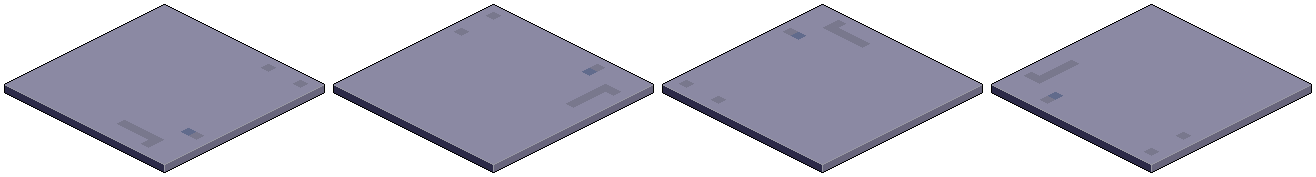
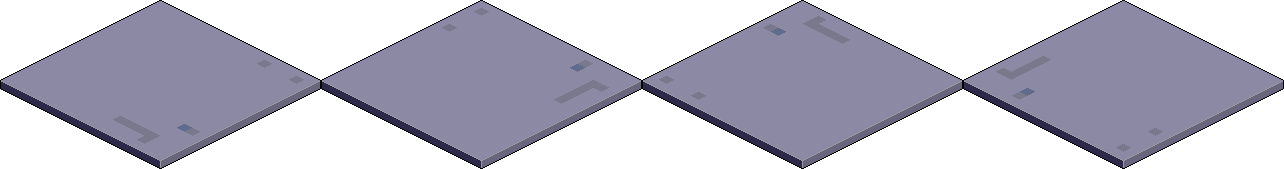
Tweaked the sprites

diff --git a/core/src/main/kotlin/tru/Assets.kt b/core/src/main/kotlin/tru/Assets.kt
@@ -350,9 +350,9 @@ object Assets : Disposable {
     val isoFloorTiles by lazy {
         val t = Texture(Gdx.files.internal("iso/floor.png"))
         Array(4) { i ->
-            val x = 4 + i * 325
+            val x = i * 321
             val y = 0
-            val w = 321
+            val w = 320
             val h = 169
             TextureRegion(t, x, y, w, h)
         }.toList()
@@ -368,15 +368,15 @@ object Assets : Disposable {
      */
     val isoWallTiles by lazy {
         val t = Texture(Gdx.files.internal("iso/wall.png"))
-        val x1 = 4
-        val x2 = x1 + 245
-        val x3 = x2 + 245
-        val x4 = x3 + 245
+        val x1 = 0
+        val x2 = x1 + 241
+        val x3 = x2 + 241
+        val x4 = x3 + 241
         val trs = mapOf(
-            CompassDirection.West to TextureRegion(t, x1, 10, 241, 179),
-            CompassDirection.South to TextureRegion(t, x2, 10, 241, 179),
-            CompassDirection.East to TextureRegion(t, x3, 10, 241, 179),
-            CompassDirection.North to TextureRegion(t, x4, 10, 241, 179)
+            CompassDirection.West to TextureRegion(t, x1, 0, 241, 179),
+            CompassDirection.South to TextureRegion(t, x2, 0, 241, 179),
+            CompassDirection.East to TextureRegion(t, x3, 0, 241, 179),
+            CompassDirection.North to TextureRegion(t, x4, 0, 241, 179)
         )
         mapOf(
             TileAlignment.Left to trs[CompassDirection.West]!!,

diff --git a/core/src/main/kotlin/ecs/systems/graphics/GameConstants.kt b/core/src/main/kotlin/ecs/systems/graphics/GameConstants.kt
@@ -7,7 +7,7 @@ object GameConstants {
     val oldFloorWidth = 16f
 
     val isoWallToFloorScale = isoFloorTileWidth / isoWallWidth
-    val isoToMapScale = oldFloorWidth / isoFloorTileWidth * 4f
+    val isoToMapScale = oldFloorWidth / isoFloorTileWidth * 2f
 
     const val ENEMY_MEMORY_TIME = 5f
     const val MAX_RANDOM_SECTION_RECURSION_LEVEL = 4
